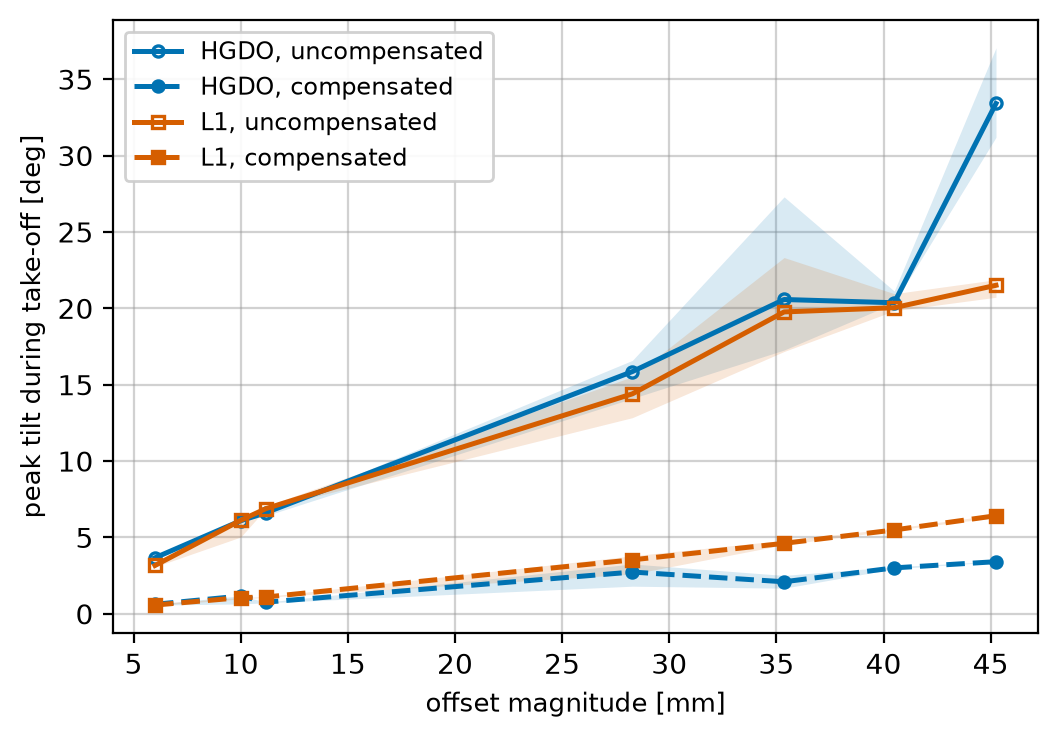
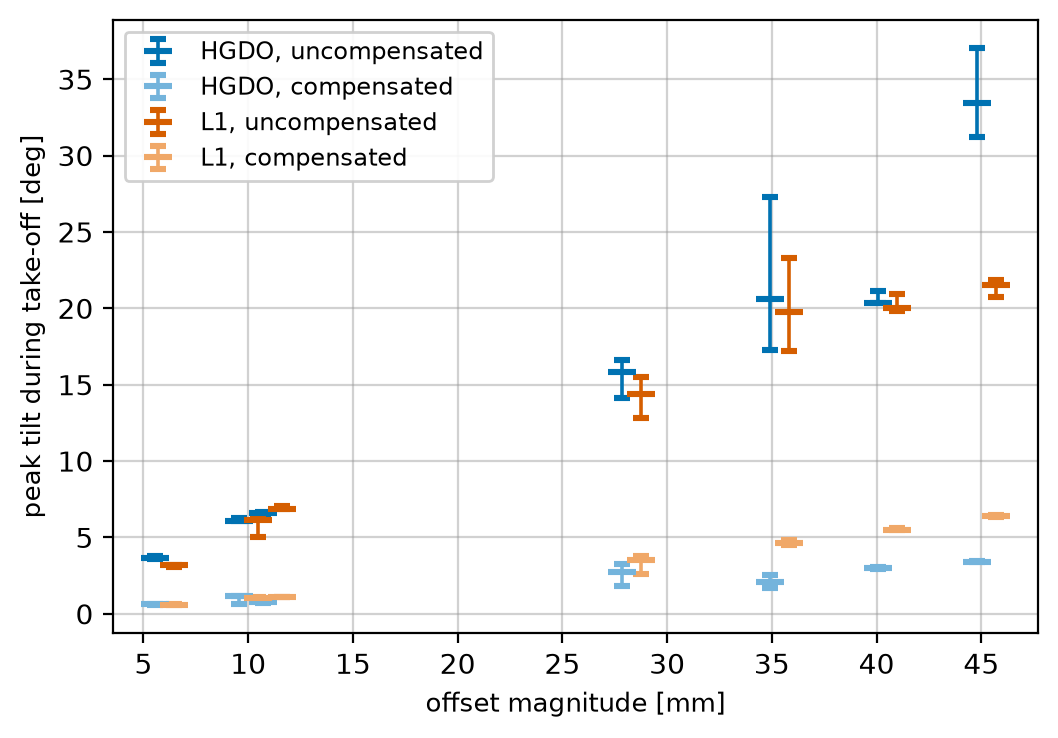
Draw the tilt scaling as crossbars instead of lines and bands
Median as a short horizontal tick with a capped vertical bar for the
empirical 95% interval, at each distinct offset magnitude (pooled
flights); controllers separated by a +-0.45 mm horizontal nudge,
compensated variants in a lighter tint of the controller color.

Changed region(s): [[0.1248, 0.0312, 0.9669, 0.935], [0.9045, 0.8726, 0.9669, 0.935]]

diff --git a/analysis/freeflight_sim_summary.py b/analysis/freeflight_sim_summary.py
@@ -181,29 +181,32 @@ def main():
                     bbox_inches='tight', **kw)
 
     # ── (b) disturbance scaling ──────────────────────────────────────
-    # median line with a shaded 95% band per controller and variant;
-    # cases sharing one offset magnitude pool their flights (e.g. the
-    # four 28.3 mm cases contribute twelve flights to that abscissa)
+    # crossbar style: at each distinct offset magnitude the median as
+    # a short horizontal tick and the empirical 95% interval as a
+    # capped vertical bar; cases sharing one magnitude pool their
+    # flights (e.g. the four 28.3 mm cases contribute twelve flights)
     fig2, ax = plt.subplots(figsize=(5.4, 3.8))
-    LS = {'wo_ff': '-', 'w_ff': '--'}
+    LIGHT = {'HGDO': '#74B4DC', 'L1': '#F0A868'}
+    dodge = {'HGDO': -0.45, 'L1': +0.45}
     for ctrl in ctrls:
         for var, lab in (('wo_ff', 'uncompensated'),
                          ('w_ff', 'compensated')):
+            col = COL[ctrl] if var == 'wo_ff' else LIGHT[ctrl]
             pool = defaultdict(list)
             for c in order:
                 mag = round(float(np.hypot(*CASES[c][:2])), 2)
                 pool[mag].extend(x['tilt']
                                  for x in cells[(c, ctrl, var)])
-            mags = np.array(sorted(pool))
-            med = np.array([np.median(pool[m]) for m in mags])
-            lo = np.array([np.percentile(pool[m], 2.5) for m in mags])
-            hi = np.array([np.percentile(pool[m], 97.5) for m in mags])
-            ax.plot(mags, med, LS[var], color=COL[ctrl], lw=1.8,
-                    marker=MRK[ctrl], ms=4.0,
-                    mfc=COL[ctrl] if var == 'w_ff' else 'none',
-                    mew=1.2, label=f'{ctrl}, {lab}', zorder=3)
-            ax.fill_between(mags, lo, hi, color=COL[ctrl],
-                            alpha=0.15, lw=0, zorder=2)
+            mags = np.array(sorted(pool)) + dodge[ctrl]
+            med = np.array([np.median(pool[m]) for m in sorted(pool)])
+            lo = np.array([np.percentile(pool[m], 2.5)
+                           for m in sorted(pool)])
+            hi = np.array([np.percentile(pool[m], 97.5)
+                           for m in sorted(pool)])
+            ax.errorbar(mags, med, yerr=[med - lo, hi - med], fmt='_',
+                        ms=10, mew=2.2, color=col, ecolor=col,
+                        elinewidth=1.3, capsize=3.0, capthick=1.3,
+                        ls='', label=f'{ctrl}, {lab}', zorder=3)
     ax.set_xlabel('offset magnitude [mm]', fontsize=9.5)
     ax.set_ylabel('peak tilt during take-off [deg]', fontsize=9.5)
     ax.grid(alpha=0.45, lw=0.8, color='0.6')
